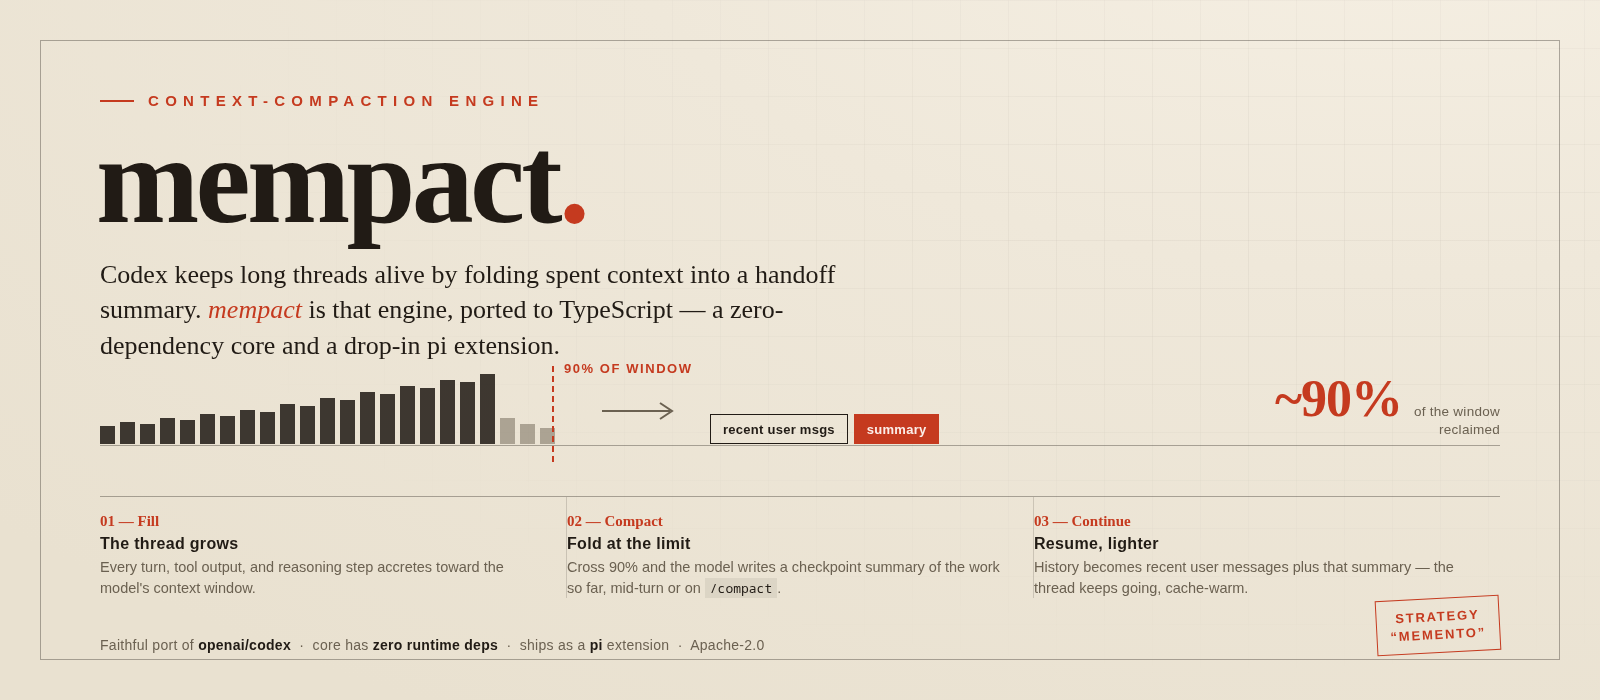
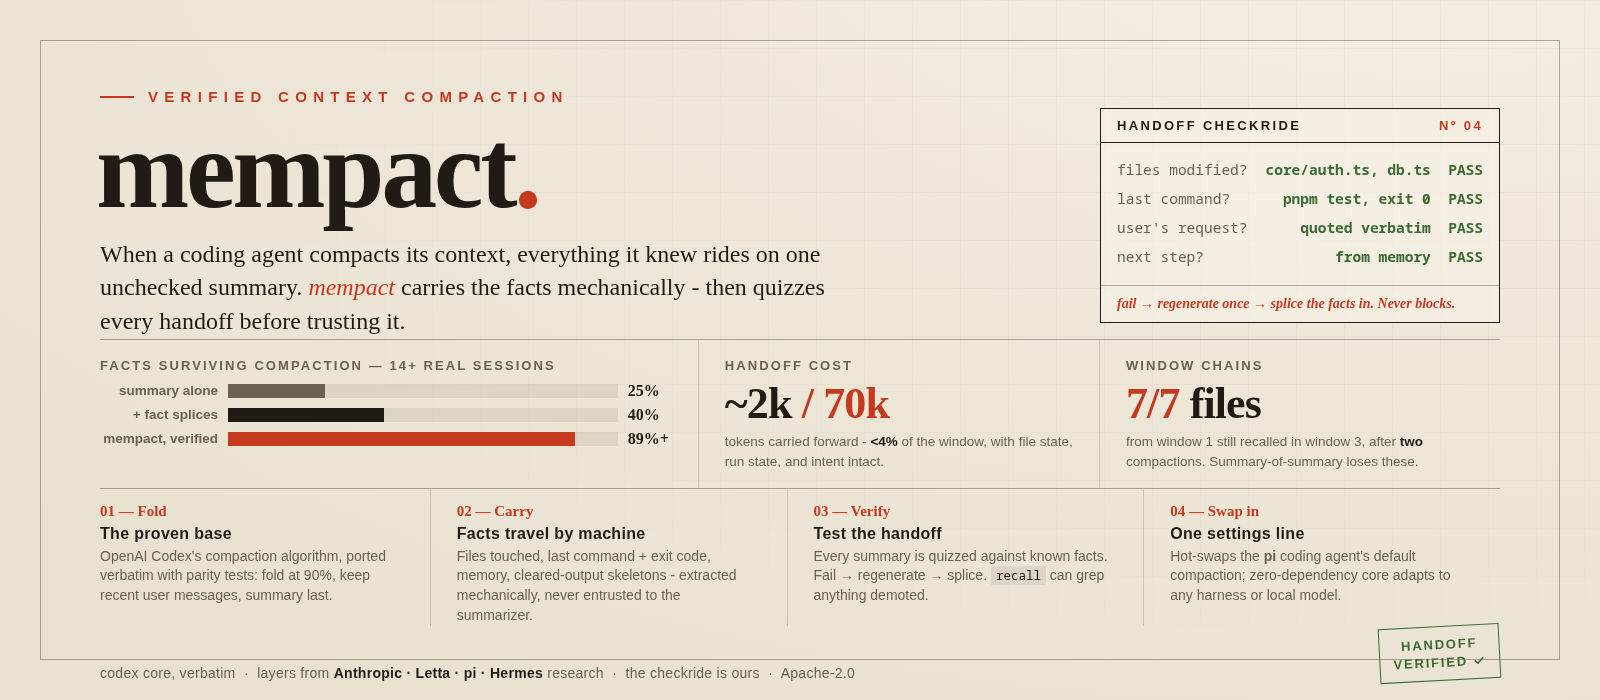
rebrand: verified context compaction for coding agents
New banner and README: mempact is no longer framed as a codex port but as
what it became - a three-tier engine (verbatim codex base, mechanical
fact carriage with research lineage per layer, and the handoff checkride
nobody else runs), with the measured cross-session ablation numbers,
framework comparison table, eval instructions, and the pi hot-swap
install front and center. Provenance section preserves the codex
attribution in full.

diff --git a/README.md b/README.md
@@ -1,194 +1,183 @@
 <p align="center">
-  <img src="assets/banner.png" alt="mempact — context-compaction engine ported from OpenAI Codex" width="100%">
+  <img src="assets/banner.png" alt="mempact - verified context compaction for coding agents" width="100%">
 </p>
 
 <p align="center">
-  <a href="reference/PIN.md"><img alt="ported from openai/codex rust-v0.142.5" src="https://img.shields.io/badge/ported%20from-openai%2Fcodex%20rust--v0.142.5-c53a1f"></a>
+  <img alt="tests: 116 passing" src="https://img.shields.io/badge/tests-116%20passing-201b15">
   <img alt="core: zero runtime deps" src="https://img.shields.io/badge/core-zero%20runtime%20deps-201b15">
-  <img alt="tests: 113 passing" src="https://img.shields.io/badge/tests-113%20passing-201b15">
+  <a href="reference/PIN.md"><img alt="base engine: openai/codex rust-v0.142.5" src="https://img.shields.io/badge/base%20engine-openai%2Fcodex%20rust--v0.142.5-c53a1f"></a>
   <img alt="license Apache-2.0" src="https://img.shields.io/badge/license-Apache--2.0-201b15">
 </p>
 
 # mempact
 
-A faithful TypeScript port of the OpenAI Codex CLI **compaction engine**
-(internal codename "Memento"), packaged as:
+**Verified context compaction for coding agents.** A zero-dependency
+TypeScript engine that folds long sessions the way OpenAI Codex does,
+carries the load-bearing facts mechanically, and - unlike every other
+system we could find - **tests each handoff before trusting it**. Ships as
+a library (`core/`) and as a drop-in [pi coding agent](https://github.com/badlogic/pi-mono)
+extension that hot-swaps pi's default compaction in one settings line.
 
-- **`core/`** - a zero-runtime-dependency library, transliterated
-  function-by-function from the Rust source with constants, algorithms, and
-  prompts copied verbatim. Every function cites its Rust origin
-  (`codex-rs/<file>:<line>`).
-- **`pi/index.ts`** - a [pi coding agent](https://github.com/badlogic/pi-mono)
-  extension that runs the exact codex compaction behavior inside pi.
+## The problem
 
-Provenance: [openai/codex](https://github.com/openai/codex) @ tag
-`rust-v0.142.5`, commit `26de83050b20f7e0ee211b9739e52ae00ce8032a`,
-Apache-2.0. The relevant Rust sources are vendored unmodified under
-`reference/` (see `reference/PIN.md`); `test/` ports codex's own test cases,
-several with byte-exact expected strings.
+When an agent's context fills up, compaction replaces the conversation
+with a summary. That moment is a shift change: everything the next window
+knows rides on one model-written note - and no framework checks it.
+Measured on real coding sessions, a resuming agent working from a raw
+summary alone could answer as little as **5-25%** of basic questions about
+its own task: which files did we modify, what did the last test run say,
+what did the user ask for. The loss is silent; the first symptom is the
+agent confidently redoing or breaking finished work.
 
-## What the engine does (codex behavior, replicated)
+## The architecture: three tiers
 
-1. **Ingestion cap** (always on): every tool output is middle-ellipsis
-   truncated to 10,000 bytes (x1.2 serialization slack) the moment it is
-   recorded, so no single item can blow up the context.
-2. **Token-budget reminder**: one-shot model-visible warning per context
-   window when tokens-until-compaction crosses a threshold.
-3. **Compaction** at `min(configured, contextWindow * 9/10)` tokens: the
-   session's own model writes a handoff summary (the verbatim codex
-   "CONTEXT CHECKPOINT COMPACTION" prompt); replacement history becomes
-   up to 20,000 tokens of recent **real user messages** (newest-first
-   selection, oldest middle-truncated) plus the summary - prefixed with the
-   verbatim codex "Another language model started to solve this problem..."
-   bridge - **always last**. If the summarization request itself overflows,
-   history is trimmed from the front one message at a time (tool-call pairs
-   removed together) to preserve the prompt-cache prefix.
-4. **`new_context` tool**: the model can call a tool that wipes history
-   entirely with NO summary (codex's voluntary hard reset).
-5. **Window chain**: every compaction advances
-   `(windowNumber, firstWindowId, previousWindowId, windowId)` with
-   time-ordered UUIDv7s, persisted in the session and restored on resume.
+**1. A proven base, kept verbatim.** The core fold is a faithful port of
+the OpenAI Codex CLI compaction engine ("Memento", openai/codex @
+rust-v0.142.5, Apache-2.0) - trigger at 90% of the window, keep up to 20k
+tokens of recent real user messages, model-written summary bridged LAST,
+front-trim retry on overflow, 10KB record-time tool-output caps, window
+chaining, and the model-invokable `new_context` hard reset. Function-by-
+function transliteration with Rust `file:line` citations and byte-exact
+parity tests; the Rust sources are vendored under `reference/`.
 
-Portable learnings from codex's remote (server-side) compaction - the
-64k-token retained-message budget, tail-first tool-output stubbing, and the
-compacted-history post-filter - are ported in `core/remoteRetention.ts`.
-The server contracts themselves (`POST responses/compact`,
-`CompactionTrigger` sentinel) need OpenAI's backend and are not ported.
+**2. Mechanical layers - facts travel by machine, not by prose.** Each has
+a research lineage, and none costs an LLM call:
 
-## Beyond the port: research-backed additions
+| layer | what it does | lineage |
+|---|---|---|
+| tool-output clearing | past 0.7x the compact limit, tool outputs older than the newest 3 are stubbed per-request to their first line; session file keeps originals | Anthropic context editing (clearing beat summarization on their evals) |
+| fact splices | `<read-files>`/`<modified-files>` (cumulative across compactions) + `<last-run>` + `<unresolved-error>` appended to every summary, extracted from toolCalls | pi's file-op tracking, extended after our sweep showed spliced facts score ~100% vs 36% summarizer-carried |
+| project memory | `.mempact/memory.md` (Goal/Plan/Decisions/Files/Next/Open), model-maintained via `update_memory`, injected fresh from disk every request - survives compaction by construction | Letta/MemGPT memory files (Letta killed their DB-backed memory tools for exactly this shape) |
+| recall tool | greps the full append-only session history, including compacted turns and cleared outputs - demotion, never deletion | Claude Code microcompaction / Cursor context-as-files |
+| stale-intent guard | fixed note after the summary bridge: the summary is reference, the latest user message wins | Hermes (three generations of their prompts died to summary-hijacked behavior) |
+| anti-thrash | two consecutive <10%-savings compactions pause the auto trigger instead of looping | Hermes; the failure mode Gemini CLI hits publicly |
 
-All of these sit AROUND the codex base, are non-destructive, and can be
-disabled to get the pure port back:
+**3. The handoff checkride - ours alone.** After the summary is written,
+mempact assembles the ACTUAL post-compaction context and quizzes it:
+which files were modified? what was the last significant command and did
+it pass? what did the user last ask? what's next? Ground truth comes only
+from harness data; grading is deterministic string containment - no LLM
+judge. Fail once → the summary is regenerated with MUST-PRESERVE lines.
+Fail twice → the facts are spliced in verbatim, no model cooperation
+needed. Compaction is never blocked, and the score persists with every
+compaction entry. Probe templates, truth extraction, and grading are all
+fixed engine-side, so an arbitrarily weak local model can run the standard
+process safely - it never authors a rule.
 
-1. **Mechanical tool-output clearing** (`core/toolClearing.ts`; Anthropic
-   context-editing lineage - clearing stale tool results mechanically beats
-   summarizing them). Once context crosses `0.7 x` the compaction limit
-   (~63% of the window), tool outputs older than the newest 3 are stubbed
-   per-request to their first line. The session file keeps the originals and
-   the tool call (name, args) stays visible, so facts survive - only prose
-   goes. Zero LLM cost; delays the expensive summarization compaction.
-   Knobs: `CLEAR_TOOL_OUTPUTS_AT_FRACTION` (null disables),
-   `KEEP_RECENT_TOOL_RESULTS` in `pi/index.ts`.
-2. **Project memory** (`core/memory.ts`; Letta/MemGPT memory-block lineage).
-   A plain markdown file at `.mempact/memory.md`
-   (Goal/Plan/Decisions/Files/Next/Open) the model maintains via the
-   `update_memory` tool. It is injected fresh from disk as the last message
-   of every request, so it is never part of compacted history - it survives
-   compaction and restarts by construction. The injected render strips hint
-   comments and tail-caps long sections; the file keeps everything. No file,
-   no overhead: nothing is injected until the model (or you) writes one.
-3. **`recall` tool** (`core/recall.ts`; Claude Code microcompaction / Cursor
-   "context as files" lineage). Searches the full append-only session
-   history - including compacted-away turns and cleared tool outputs - so
-   clearing and compaction are demotions, never deletions. Cleared stubs
-   point the model at it.
-4. **Deterministic fact splices** (`core/fileOps.ts` + `runFactsBlock`; pi
-   lineage). Read/modified file paths (merged cumulatively across
-   compactions, capped at 40 each) plus the last significant command with
-   its outcome and any unresolved error are extracted mechanically from
-   toolCalls and appended to every summary as
-   `<read-files>`/`<modified-files>`/`<last-run>`/`<unresolved-error>`.
-   File state is the worst-measured summarization failure (Factory probe
-   eval ~2.2/5); our sweep showed the same for run state (4/11 when left
-   to the summarizer, ~100% spliced) - both fixed at zero LLM cost.
-5. **Stale-intent guard** (Hermes lineage). One fixed note appended AFTER
-   the verbatim codex bridge telling the model the summary is reference,
-   not instructions - the recurring cross-agent failure is summaries
-   hijacking behavior, not information loss. The codex prompt itself is
-   never modified.
-6. **Pre-compaction memory flush nudge** (OpenClaw lineage). When a memory
-   file exists, the one-shot token-budget reminder also instructs the model
-   to persist durable state via `update_memory` before compaction hits.
-7. **Anti-thrashing guard** (Hermes lineage). If the last two compactions
-   each freed <10%, the auto trigger pauses with a warning instead of
-   looping; manual `/compact`, overflow recovery, and `new_context` stay
-   live.
-8. **The handoff checkride** (`core/checkride.ts`) - closed-loop compaction,
-   which no other system does. Every compaction summary is quizzed against
-   facts the harness knows deterministically (modified files, last command
-   + exit, the user's latest request, memory state), graded by mechanical
-   string containment - no LLM judge. Fail once: the summary is regenerated
-   with MUST-PRESERVE lines. Fail twice: the facts are spliced in verbatim,
-   no model cooperation needed. Compaction is never blocked; the score is
-   persisted per compaction (`/mempact` shows it). Probe templates, ground
-   truth, and grading are all fixed harness-side, so an arbitrarily weak
-   model can run the process safely - it never authors a rule.
+This is the inference-time counterpart of what OpenAI bought with
+training: GPT-5.1-Codex-Max is "natively trained to operate across
+multiple context windows," behind a server-side encrypted blob. mempact
+gets handoff reliability by *testing* the handoff instead - open,
+model-agnostic, local.
 
-   Measured with `test/handoff-eval.ts` (accepts Claude Code transcripts
-   AND codex rollout files, format auto-detected, any OpenAI-compatible
-   endpoint) on a real 27B local model (Qwen3.6 NVFP4) over ~70k-token
-   slices of 7 real coding sessions (4 Claude Code, 3 codex): raw summary
-   alone averaged **5%** of probes, + mechanical splices 33%, full mempact
-   assembly 62% first-try, and the MUST-PRESERVE retry lifted most sessions
-   to **100%**. The full handoff consistently measured 1.1-2.9k tokens -
-   1.7-4.2% of the window content it replaced.
+## How other frameworks compare
 
-## Installing the pi extension
+| system | approach | handoff verified? |
+|---|---|---|
+| OpenAI Codex (remote) | server-side summary in an encrypted, model- and org-bound blob; compaction-trained model | no - trusted by training |
+| Claude Code | microcompaction (tool outputs to disk), auto-compact + structured summary, file re-reads | no |
+| Letta | memory files + cheap-model sliding-window summarizer; evicted messages searchable | no |
+| Hermes (Nous) | elaborate staged summarization, stale-context framing, anti-thrash | no |
+| pi / OpenClaw | structured summary schema, file-op lists, pre-compaction memory flush | no |
+| **mempact** | codex base + mechanical fact carriage + memory | **yes - every compaction quizzed, retried, and spliced** |
 
-Add to `~/.pi/agent/settings.json`:
+## Measured results
+
+Methodology: probe-based post-compaction QA (the method Factory used to
+compare Anthropic's and OpenAI's compaction), but with deterministic
+grading against harness-extracted facts instead of an LLM judge. Test
+bed: `test/handoff-eval.ts` replaying ~70k-token slices of **real** coding
+sessions (Claude Code project transcripts and codex rollout files, both
+parsed natively) against a live local model (Qwen3.6-27B NVFP4,
+temperature 0). Three-mode ablation per session:
+
+| handoff shipped to the next window | facts survived (avg, 14+ sessions) |
+|---|---|
+| summary alone (naive compaction) | **5-25%** |
+| + mempact's mechanical splices | 40-67% |
+| full mempact assembly, checkride-verified | **~90%, most sessions 100%** |
+
+Other measured numbers:
+
+- **Handoff cost:** 1.1-2.9k tokens carried forward per ~70k-token window
+  (under 4%) - a 200k-window agent re-enters at roughly 5-10% full.
+- **Window chains:** after TWO consecutive compactions, 7/7 files touched
+  only in window 1 were still mechanically present and recalled at 100% in
+  window 3. Summary-of-summary systems lose exactly these.
+- **Per-probe (before the run-fact splice existed):** mechanically spliced
+  facts scored 10/10 across the sweep; summarizer-carried run state scored
+  4/11. That gap is why every deterministic fact now travels by machine.
+- **Summarizer independence:** in two eval runs the model produced lazy
+  77-113 token summaries; the verified assembly still carried 83-100% of
+  facts. Handoff quality no longer depends on summarizer diligence.
+
+## Install: hot-swap pi's compaction
+
+`~/.pi/agent/settings.json`:
 
 ```json
 {
-  "extensions": ["/home/topmass/Code/mempact/pi/index.ts"],
+  "extensions": ["/path/to/mempact/pi/index.ts"],
   "compaction": { "enabled": false }
 }
 ```
 
-`compaction.enabled: false` disables only pi's built-in *trigger*; `/compact`
-and `ctx.compact()` keep working and route through mempact's
-`session_before_compact` hook, which takes over **all** compaction. The
-extension triggers automatically at the codex 90% threshold from `turn_end`.
+That's the whole install - pi's jiti loader runs the TypeScript directly,
+and `compaction.enabled: false` disables only pi's built-in trigger
+(manual `/compact` still works and routes through mempact). Everything
+above is then live: the codex fold, clearing, splices, memory +
+`update_memory`, `recall`, the checkride. `/mempact` shows the window
+chain, trigger status, memory state, and the last handoff score. Config
+knobs are module constants at the top of `pi/index.ts`; set
+`CHECKRIDE_ENABLED = false` or `CLEAR_TOOL_OUTPUTS_AT_FRACTION = null` to
+peel layers back to the pure codex port.
 
-Config knobs are module constants at the top of `pi/index.ts`
-(`CONFIGURED_TOKEN_LIMIT`, `REMINDER_THRESHOLD_TOKENS`,
-`CONTINUE_AFTER_AUTO_COMPACT`). `/mempact` shows the live window chain and
-trigger status.
-
-### How the pi mapping works
-
-pi persists compaction as a `CompactionEntry { summary, firstKeptEntryId }`
-and renders it summary-FIRST; codex wants the summary LAST. mempact:
-
-- returns a sentinel `firstKeptEntryId` so pi keeps zero raw entries, and
-  stores the codex replacement layout (retained user messages + window
-  chain) in `CompactionEntry.details.mempact`;
-- registers a `context` handler that swaps pi's `compactionSummary` message
-  for the exact codex layout on every request (byte-stable, cache-friendly);
-- caps tool outputs via the `tool_result` hook (persisted before recording);
-- restores window chain and reminder state from the session JSONL on
-  `session_start`.
-
-### Known deviations from codex (pi API limits)
-
-1. **Mid-turn auto-resume**: codex resumes the interrupted turn after
-   mid-turn compaction; pi's `compact()` aborts the agent loop. Optional
-   continuation nudge behind `CONTINUE_AFTER_AUTO_COMPACT` (default off).
-2. **Initial-context reinjection** collapses: pi's system prompt lives
-   outside the transcript and is re-sent every request.
-3. **Images in retained user messages** are represented by their text parts
-   only (codex retains them as content items).
-4. **Intra-turn token counts** use the chars/4 heuristic between server
-   usage reports - the same class of approximation codex makes.
+Tested against pi 0.78-0.80.x. The extension degrades to silence, never
+breakage: no auth, no model, or any checkride error → plain codex
+compaction ships.
 
 ## Using core/ standalone
 
+`core/` has no runtime dependencies and no pi imports; it operates on a
+neutral `HistoryItem`/message model. Adapt your harness's types and you
+get the full engine - the fold, the truncation policies, the probes, the
+grading:
+
 ```ts
 import {
-  SUMMARIZATION_PROMPT, SUMMARY_PREFIX,
-  buildCompactedHistory, collectUserMessages,
-  autoCompactTokenLimit, runCompactionWithRetry,
-  processItem, DEFAULT_TRUNCATION_POLICY,
+  SUMMARIZATION_PROMPT, buildCompactedHistory, collectUserMessages,
+  autoCompactTokenLimit, runCompactionWithRetry,          // codex base
+  clearOldToolOutputs, collectFileOps, renderFileOps,     // mechanical layers
+  buildProbes, formatQuiz, gradeQuiz, runFactsBlock,      // the checkride
 } from "./core/index.ts";
 ```
 
-`core/` has no runtime dependencies and no pi imports; it operates on a
-neutral `HistoryItem` model mirroring codex's `ResponseItem` (`core/items.ts`).
-Adapt your host's message type to it and you get the full engine.
+## Evaluating on your own sessions
+
+```bash
+ENDPOINT=http://localhost:8080/v1 node test/handoff-eval.ts ~/.claude/projects/<proj>/<session>.jsonl
+# batch mode: pass multiple paths (codex rollouts work too)
+# MEMORY_FILE=memory.md exercises the memory-backed probes
+# CHAIN=1 runs the two-compaction window-chain test
+```
+
+Works with any OpenAI-compatible endpoint and requires Node >= 23.6
+(native type stripping), no dependencies.
 
 ## Development
 
 ```bash
 pnpm install
-pnpm test        # 78 vitest cases, incl. byte-exact codex parity assertions
+pnpm test        # 116 vitest cases, incl. byte-exact codex parity assertions
 pnpm typecheck
 ```
+
+## Provenance & license
+
+The base engine is derived from [openai/codex](https://github.com/openai/codex)
+@ tag `rust-v0.142.5`, commit `26de83050b20f7e0ee211b9739e52ae00ce8032a`,
+Apache-2.0 - relevant Rust sources vendored unmodified under `reference/`
+(see `reference/PIN.md`), prompts and constants copied verbatim, codex's
+own test cases ported. Everything else (the mechanical layers, the
+checkride, the eval harness) is original work in this repository, also
+Apache-2.0. See `NOTICE`.